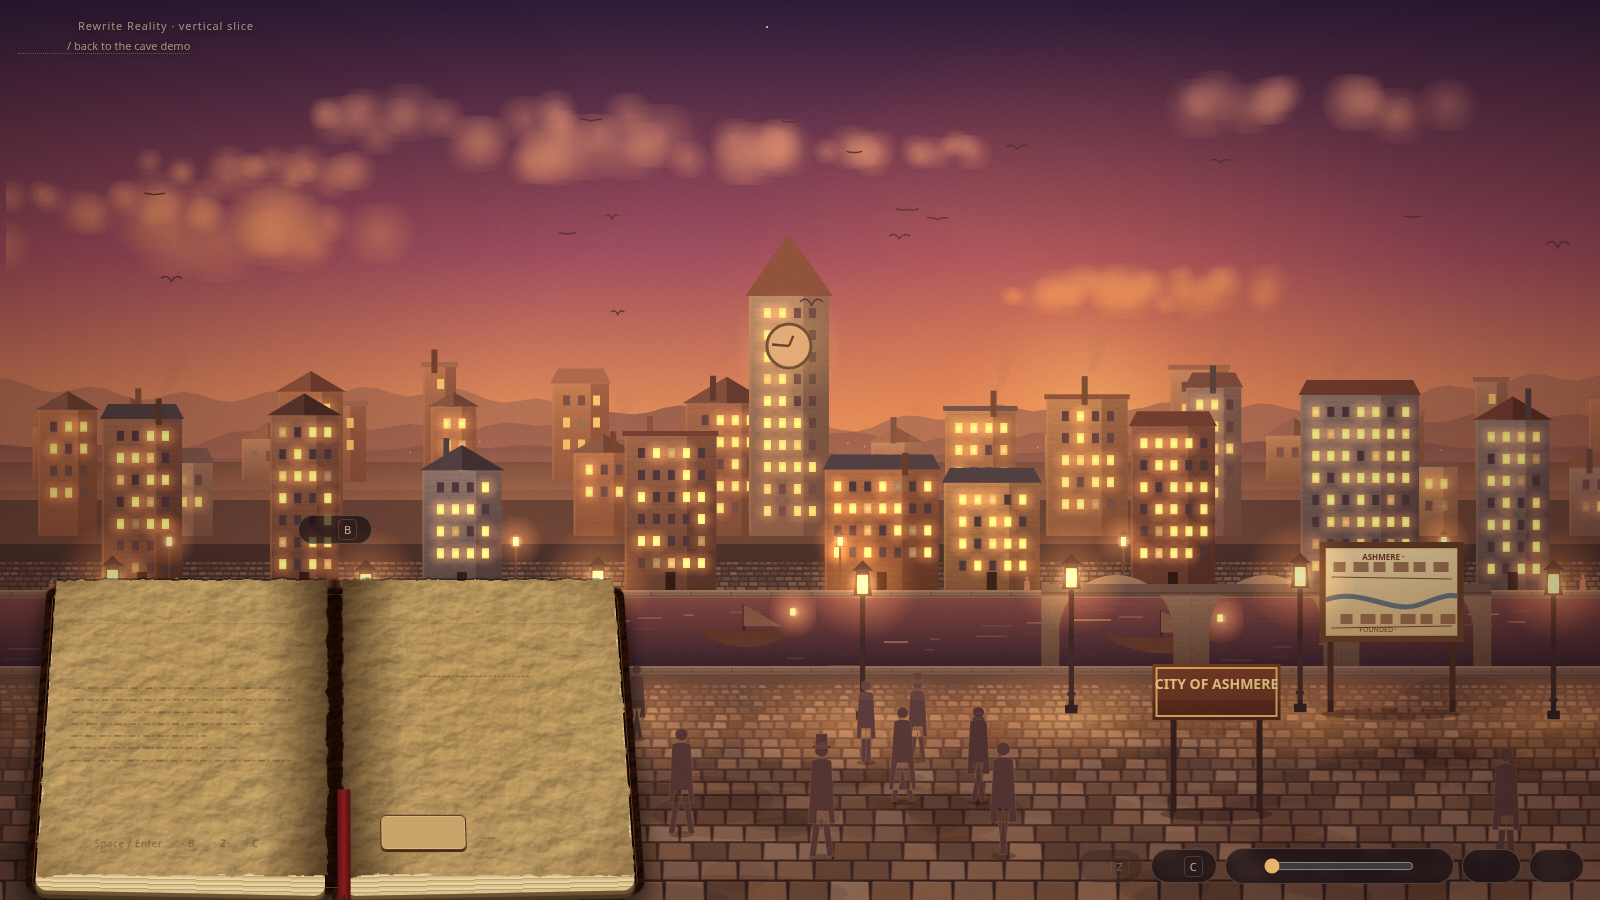
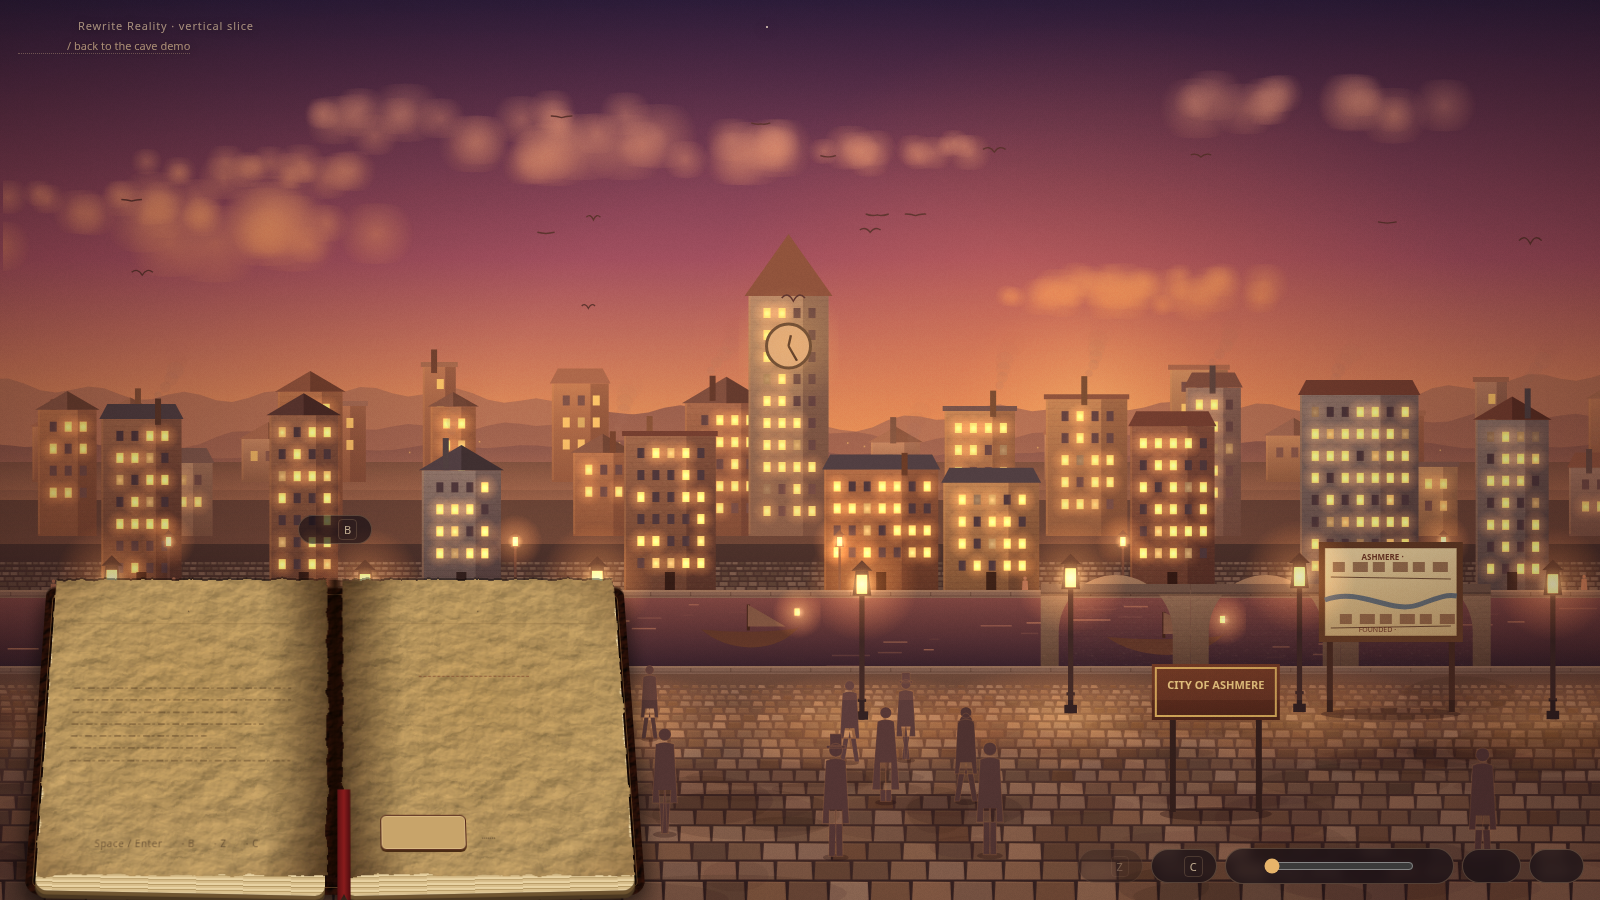
docs: add rewrite slice README, DESIGN.md, root pointer; fix sign overflow and refresh screenshots

diff --git a/rewrite/world.js b/rewrite/world.js
@@ -670,7 +670,7 @@
         var bg = ctx.createLinearGradient(0, -150, 0, -92); bg.addColorStop(0, rgb([96, 52, 36])); bg.addColorStop(1, rgb([66, 36, 28]));
         ctx.fillStyle = bg; ctx.fillRect(-64, -148, 128, 56);
         ctx.strokeStyle = 'rgb(212,170,96)'; ctx.lineWidth = 2; ctx.strokeRect(-60, -144, 120, 48);
-        ctx.fillStyle = 'rgb(236,206,138)'; ctx.textAlign = 'center'; ctx.font = 'bold 14px ' + FONT;
+        ctx.fillStyle = 'rgb(236,206,138)'; ctx.textAlign = 'center'; ctx.font = 'bold 11px ' + FONT;
         ctx.fillText('CITY OF ASHMERE', 0, -123); ctx.font = '13px ' + FONT; ctx.fillText('灰堡市', 0, -104);
         ctx.restore();
         if (e > 0.001 && e < 0.995) { ctx.save(); inkEdge(e, bd, info, 0.05); ctx.restore(); }

diff --git a/docs/DESIGN.md b/docs/DESIGN.md
@@ -1,0 +1,78 @@
+# Design: Rewrite Reality vertical slice (issue #4)
+
+Branch: `feat/rewrite-reality-slice` (from `feat/static-demo`). Everything lives in `rewrite/`, `tests/`, `docs/`. The existing root files are unchanged except for a pointer in `README.md`.
+
+## Run locally
+
+```
+python3 -m http.server 8000
+# http://localhost:8000/rewrite/    (rewrite/index.html also works over file://)
+node tests/run.mjs                  # unit tests + node --check on all JS
+```
+
+Controls are listed in [rewrite/README.md](../rewrite/README.md).
+
+## Idea
+
+The first demo made the book the spectacle and the world a side effect. This slice reverses that. The player sees a living city and rewrites one sentence, 「灰堡市建于永昌四十二年。」 to 「灰堡市从未建立。」. The same location is rewritten in about 9 seconds. The horizon, hills and river stay as anchors, so it reads as the same place with a different history.
+
+## Visual design plan
+
+- **One world model, not two images.** A single deterministic scene (seeded RNG) is drawn on a 2D canvas from a progress value t in [0,1]. There is no crossfade between pictures. Scrubbing t shows every intermediate state, which is what undo and compare use.
+- **Old world:** dusk gradient sky, clouds, far hills, about 40 buildings in depth layers with lit windows, chimneys, a clock tower, a bridge, river with boats, street with lamps and cobbles, a cart, about 25 pedestrians, smoke, birds, the sign "City of Ashmere / 灰堡市", and a wall map. Light haze with depth, film grain, vignette, slight camera drift.
+- **Rewrite:** each entity has its own erasure threshold and a spatial wave that starts at the pen and moves outward. Buildings sink from an ink-like edge, decompose to scaffolding, then foundation lines, then grass. Windows go out one by one. Lamps go dark and fall. People fade to outlines and vanish, and some freeze and look up. Roads fray into dirt tracks and grass. Smoke stops. The light turns cold dawn grey with stars.
+- **New world:** wild meadow and reeds, wind-moved grass, standing stones. The sign becomes a weathered stone reading "Ashmere Meadow / 灰堡草甸". The wall map now shows only a river and meadow, with the entry "no settlement recorded". Everything looks like it has always been this way.
+- **Haunting consequence:** a few seconds after the new world settles, the old lamplighter stands where the street was, lantern still lit. He slowly turns to look at the camera, and his gaze follows the pointer slightly. Faint traces of the old street appear only around him: lamp base stones, a cobble patch, a window that floats briefly. The book page gains a line in the user's hand: 「只有他记得。」 No jump scares and no loud audio. An optional quiet synthesized wind drone is off by default.
+- **Book:** leather cover, page-edge stacks, parchment from CSS gradients and SVG feTurbulence, ink look from a kaiti / serif system stack, deckled edge, ribbon. Hold-to-write has a quill, ink blots, a struck-out old line and a new line bleeding in. It docks low so the world dominates.
+- **Reduced motion:** the rewrite becomes a staged crossfade of three held keyframes of the same model in at most 1.2 s, with no parallax, grain or shake. There is also a manual toggle.
+- **Accessibility and performance:** keyboard controls, aria labels, focus rings. Device pixel ratio is capped, static layers are cached to offscreen canvases, and the loop pauses when the tab is hidden.
+
+## Tradeoffs
+
+- **Procedural canvas instead of image assets.** No downloads or licensing, the scene can be continuous in t, and the repo stays small. The cost is that the art is stylized and flat compared with painted work. Clouds are soft blurred blobs and look rough.
+- **Plain scripts, no modules or build.** Works over file://, matching the existing demo. The cost is globals and a large `world.js`.
+- **One scripted fact.** Only one rewrite is supported, to show the idea well. The older demo's three facts and costs are not carried over.
+- **Chinese copy depends on system fonts.** The sandbox used for screenshots has no CJK fonts, so Chinese text is blank in the PNGs. The layout is verified, but the Chinese rendering is not visible in the screenshots. On a normal desktop it renders.
+
+## Art source and license
+
+All art is original and generated in code (canvas 2D, CSS, SVG filters, WebAudio). No third-party images, fonts, audio or libraries are bundled or fetched. No external license applies.
+
+## Screenshots
+
+Captured from the running slice by `tests/shoot.mjs` in headless Chromium (chrome-headless-shell via playwright-core). In `docs/screenshots/`:
+
+| File | Content |
+|---|---|
+| `a-old.png` | Old world, t=0 |
+| `b-t35.png` | Rewriting, t=0.35 |
+| `c-t65.png` | Rewriting, t=0.65 |
+| `d-new.png` | New world with the figure state |
+| `e-pen-down.png` | Hold in progress, book writing |
+| `f-rewriting.png` | Mid rewrite after real hold |
+| `g-haunt-gaze.png` | Lamplighter looking toward the pointer |
+| `h-reduced-new.png` | Reduced-motion path, new world |
+| `i-autoplay.png` | `?autoplay=1` run |
+
+## Done / not done
+
+Done:
+- Continuous world rewrite from a single state model, OLD, WRITING, REWRITING, NEW
+- Undo (reverse timeline), compare hold and scrub slider, persistence
+- Retroactive sign and map, haunting lamplighter with pointer gaze, book echo line
+- Reduced-motion path and toggle, optional muted-by-default sound
+- Debug query API, unit tests (`node tests/run.mjs`), screenshots
+
+Not done:
+- Only one rewritable fact. No second fact, costs, or prophecies from the cave demo
+- Clouds are blurry blobs, and the art is stylized rather than detailed
+- No mobile layout tuning, and not tested on real devices
+- Chinese text not visible in the screenshots (font limitation above)
+- Frame rate target (30+ fps) was not measured on a physical desktop, only in headless software rendering
+- Not merged or published. Nothing was pushed
+
+## Relationship to other work
+
+- **#2 / `feat/static-demo`:** the cave demo stays as is. This slice reuses its parchment and leather recipes (feTurbulence plus diffuse lighting, from the `#f-sandstone` / `#f-stone` filters), the hold-to-write (按住落笔) interaction, reduced-motion approach, localStorage key naming, and the zh copy tone. It links back to `../index.html`.
+- **#3 (PR with SVG illustration):** not built upon. Its approach of illustrating scenes in SVG is kept only as an exploration record; no code from it is used.
+- **#4:** this slice answers it: a world-first, persistent, observable rewrite with a consequence, independent of the earlier previews.

diff --git a/rewrite/README.md b/rewrite/README.md
@@ -1,0 +1,42 @@
+# 改写现实 · 灰堡市 (Rewrite Reality vertical slice)
+
+A standalone preview for issue #4. The product is the world: a full-screen canvas city at dusk. A heavy history book sits in a dock at the bottom and is only the medium. Rewriting one line in it rewrites the same place, continuously, into a city that was never built.
+
+Design notes, tradeoffs and the done / not-done list are in [../docs/DESIGN.md](../docs/DESIGN.md).
+
+## Run
+
+Opening `rewrite/index.html` directly (file://) works. Or serve the repo:
+
+```
+python3 -m http.server 8000
+# open http://localhost:8000/rewrite/
+```
+
+No build step, no network, no dependencies. Tests: `node tests/run.mjs`.
+
+## Controls
+
+| Action | Input |
+|---|---|
+| Write (rewrite the line) | Hold 按住落笔 for about 1.2 s (mouse, or hold Space / Enter) |
+| Cancel | 取消 button |
+| Raise / lower the book | B, or the handle under the book |
+| Undo (reverse the rewrite) | Z, or 撤回 |
+| Compare old and new history | Hold C, or drag the 原载 / 改写 slider |
+| Reduce motion | 减弱动态 button (also follows `prefers-reduced-motion`) |
+| Sound | 声音 button. Off by default, never autoplays |
+| Gaze | Move the pointer after the rewrite. The figure follows it |
+
+Releasing early cancels the write. After the rewrite finishes you stay in the new world. State is stored under the key `chronicles-of-time.slice.v1` in localStorage.
+
+## Debug query parameters
+
+`?t=0..1` fixed progress, `?state=new`, `?autoplay=1`, `?reduced=1`, `?time=N`, `?figure=1`, `?book=0`. Debug URLs do not save state. `window.__slice` exposes `setProgress` and `getState`.
+
+## Files
+
+- `index.html`, `style.css`: page, book (CSS and SVG filters), HUD
+- `core.js`: pure logic (seeded RNG, erasure curve, state machine, hold timer), unit tested
+- `world.js`: the canvas world from one shared model
+- `book.js`: book, hold-to-write, undo, compare, sound, persistence

diff --git a/README.md b/README.md
@@ -62,3 +62,6 @@
 - `chronicles-of-time.lang.v1`：语言（zh / en）
 
 数据只保存在当前浏览器，不会上传。
+
+## 改写现实 · 垂直切片
+新增独立预览：[`rewrite/`](rewrite/README.md)（城市先行的改写现实切片，设计说明见 [`docs/DESIGN.md`](docs/DESIGN.md)）。上文内容不受影响。
